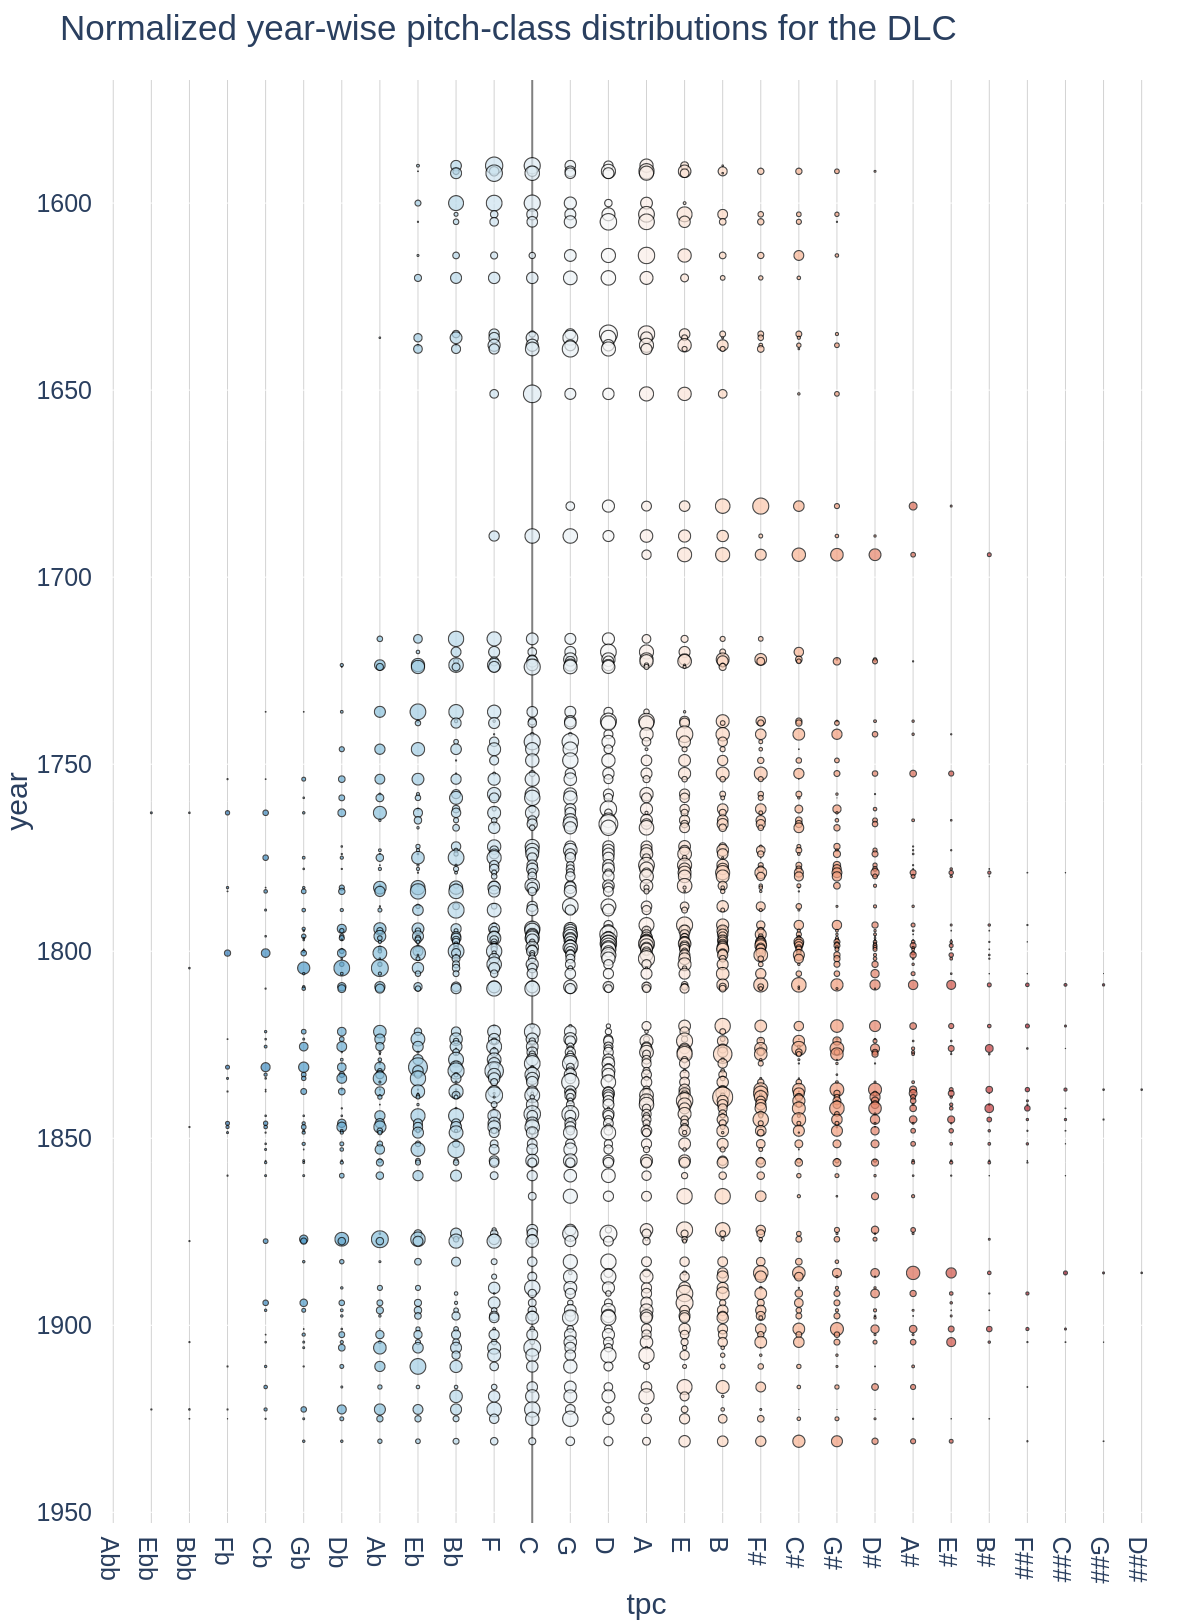
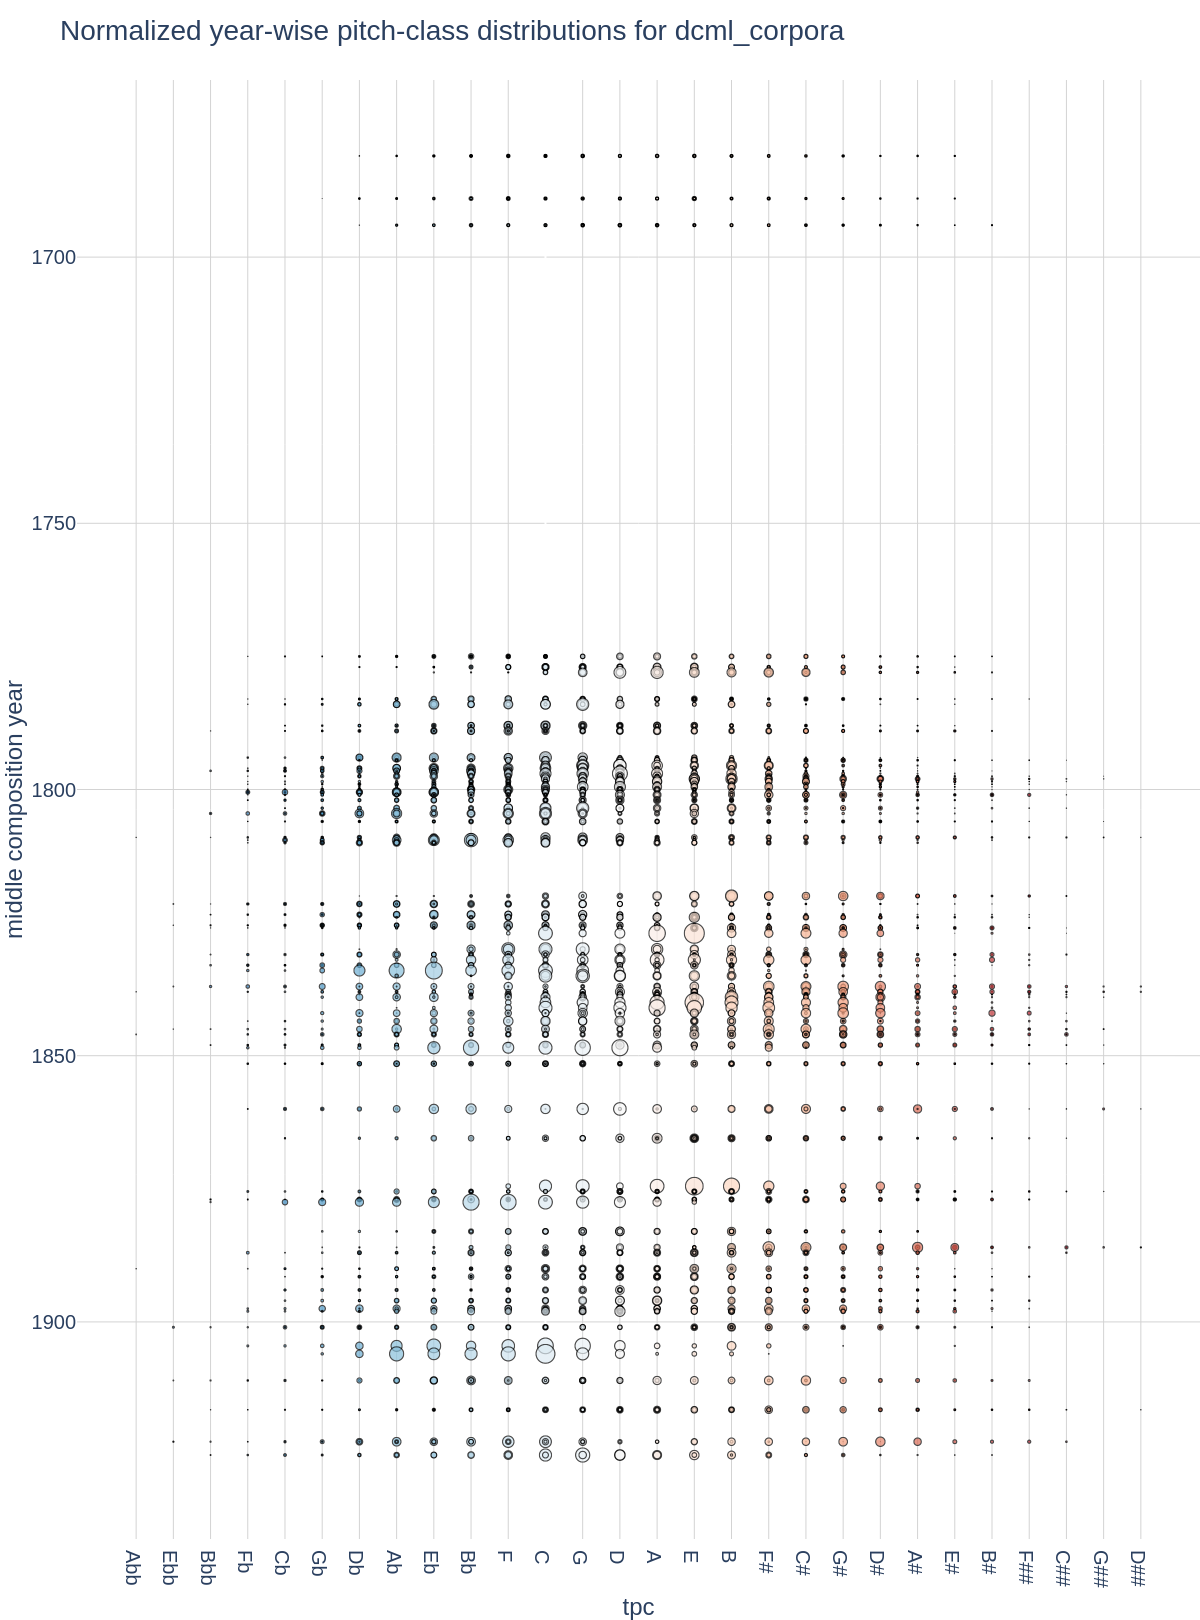
improves plotting to the point that the line_of_fifths.md notebook works with the revamped DiMCAT

diff --git a/line_of_fifths.py b/line_of_fifths.py
@@ -23,7 +23,6 @@
 # %autoreload 2
 import os
 from git import Repo
-import plotly.express as px
 import dimcat as dc
 import ms3
 
@@ -32,13 +31,8 @@ from utils import (
     print_heading,
     get_repo_name
 )
-from dimcat.utils import get_middle_composition_year
-from dimcat.plotting import write_image
-from dimcat.data import resources
-import pandas as pd
-# import modin.pandas as pd
-# import ray
-# ray.init(runtime_env={'env_vars': {'__MODIN_AUTOIMPORT_PANDAS__': '1'}}, ignore_reinit_error=True)
+
+from dimcat import resources, groupers
 
 # %%
 from utils import OUTPUT_FOLDER, DEFAULT_OUTPUT_FORMAT
@@ -46,8 +40,6 @@ RESULTS_PATH = os.path.abspath(os.path.join(OUTPUT_FOLDER, "line_of_fifths"))
 os.makedirs(RESULTS_PATH, exist_ok=True)
 def make_output_path(filename):
     return os.path.join(RESULTS_PATH, f"{filename}{DEFAULT_OUTPUT_FORMAT}")
-def save_figure_as(fig, filename, directory=RESULTS_PATH, **kwargs):
-    write_image(fig, filename, directory, **kwargs)
 
 
 # %% [markdown]
@@ -63,20 +55,8 @@ print(f"ms3 version {ms3.__version__}")
 D = dc.Dataset.from_package(package_path)
 D
 
-# %%
-notes = D.get_feature("notes")
-notes.df
-
-# %%
-annotations = D.get_feature("harmonylabels")
-annotations.df
-
-# %%
-metadata = D.get_metadata()
-metadata
-
 # %% [markdown]
-# ## Pitch class distribution
+# ## Pitch class distribution for the beginning of La Mer
 
 # %%
 la_mer_notes = resources.Notes.from_descriptor_path("La_Mer_1-84.notes.resource.json")
@@ -91,93 +71,45 @@ la_mer_notes.plot_grouped(
 )
 
 # %%
-from dimcat.plotting import make_lof_bubble_plot
+grouped_la_mer = groupers.MeasureGrouper().process(la_mer_notes)
+grouped_la_mer.plot_grouped(
+  title="Normalized measure-wise pitch-class distribution in 'La Mer' (mm. 1-84)",
+  output=make_output_path("debussy_la_mer_beginning_barwise_pitch_class_distributions_bubbles"), 
+  width=1200)
 
-la_mer_mn_dist = la_mer_notes.groupby(['mn', 'tpc']).duration_qb.sum()
-x_vals = sorted(la_mer_notes.tpc.unique())
-x_names = ms3.fifths2name(x_vals)
-x_axis = dict(tickvals=x_vals, ticktext=x_names)
-fig = make_lof_bubble_plot(
-    la_mer_mn_dist, 
-  y_col="mn",
-  title="measure-wise pitch-class distribution in 'La Mer' (mm. 1-84)",
-    labels=dict(mn="Measure number", tpc="Tonal pitch class"), x_axis=x_axis
-    )
-save_figure_as(fig, "debussy_la_mer_beginning_barwise_pitch_class_distributions_bubbles", width=1200)
-fig.show()
+# %% [markdown]
+# ## Pitch class distributions for the datapackage
 
 # %%
-sorted_composition_years = get_middle_composition_year(metadata).sort_values()
-order_of_pieces = sorted_composition_years.index.to_list()
-notes_piece_groups = notes.groupby(['corpus', 'piece'])
-# aligned_integer_index = np.concatenate([notes_piece_groups.indices[piece_id] for piece_id in order_of_pieces])
-# notes_chronological_piece_order = notes.take(aligned_integer_index)
-id_notes = pd.concat({ID: notes_piece_groups.get_group(piece_id) for ID, piece_id in enumerate(order_of_pieces)})
-id_notes.index.rename(['ID', 'corpus', 'piece',  'i'], inplace=True)
-id_notes
-piece_distributions = id_notes.groupby(['ID', 'corpus', 'piece', 'tpc']).duration_qb.sum()
-piece_distributions
-
-# %%
-id_distributions = piece_distributions.copy()
-id_distributions.index = piece_distributions.index.droplevel([1,2])
-id_distributions
-
-# %%
-df = id_distributions.groupby(level=0, group_keys=False).apply(lambda S: S / S.sum())
-hover_data = ms3.fifths2name(list(df.tpc))
-df['pitch class'] = hover_data
-df
-
-# %%
-result = resources.results.Result.from_dataframe(df, "dcml_corpora_pitch_class_distributions")
-result.index.rename("piece", inplace=True)
+result = notes.get_default_analysis()
 result
 
 # %%
-result.plot()
+result.unstack(fill_value=0.0).sum().rename("duration_qb")
 
 # %%
-result.plot_grouped()
-
-# %%
-fig = px.scatter(df, x=list(df.tpc), y=list(df.ID),
-                     size=list(df.duration_qb),
-                     color=list(df.tpc))
-fig
-
-# %%
-fig = make_lof_bubble_plot(
-    id_distributions,
-    y_col="ID",
-    title="piece-wise pitch-class distributions for the DLC", x_axis=x_axis
+notes = D.get_feature("notes")
+notes.plot_grouped(
+  title=f"Pitch-class distribution for {notes.resource_name.split('.')[0]}",
+  output=make_output_path("complete_pitch_class_distribution_absolute_bars"),
+  height=800
 )
-save_figure_as(fig, "all_pitch_class_distributions_piecewise_bubbles", width=1200)
-fig.show()
 
 # %%
-year_notes = pd.concat({year: notes_piece_groups.get_group(piece_id)
-                        for piece_id, year in sorted_composition_years.items()})
-year_notes.index.rename(['year', 'corpus', 'piece',  'i'], inplace=True)
-year_notes
+grouped_D = groupers.YearGrouper().process(D)
+grouped_notes = grouped_D.get_feature("notes")
+grouped_notes
 
 # %%
-year_groupby = year_notes.reset_index().groupby(['year', 'tpc'])
-year_distributions = year_groupby.duration_qb.sum()
-year_distributions = pd.concat([year_distributions, year_groupby.corpus.unique().rename('corpora')], axis=1)
-fig = make_lof_bubble_plot(
-    year_distributions,
-    y_col="year",
-    normalize=True, title="year-wise pitch-class distributions for the DLC", hover_data="corpora",
-    x_axis=x_axis
+grouped_notes.plot(
+  output=make_output_path("all_pitch_class_distributions_piecewise_bubbles"),
+  title=f"Normalized piece-wise pitch-class distributions for {grouped_notes.resource_name.split('.')[0]}",
+  width=1200
 )
-save_figure_as(fig, "all_pitch_class_distributions_yearwise_bubbles", width=1200)
-fig.show()
 
 # %%
-from dimcat.steps import analyzers
-fig = notes.plot()
-save_figure_as(fig, "complete_pitch_class_distribution_absolute_bars", height=800)
-fig.show()
-
-# %%
+grouped_notes.plot_grouped(
+  output=make_output_path("all_pitch_class_distributions_yearwise_bubbles"),
+  title=f"Normalized year-wise pitch-class distributions for {grouped_notes.resource_name.split('.')[0]}",
+  width=1200
+)

diff --git a/line_of_fifths.md b/line_of_fifths.md
@@ -21,7 +21,6 @@ Notebook adapted from the one used for the presentation at HCI 2023 in Copenhage
 %autoreload 2
 import os
 from git import Repo
-import plotly.express as px
 import dimcat as dc
 import ms3
 
@@ -30,13 +29,8 @@ from utils import (
     print_heading,
     get_repo_name
 )
-from dimcat.utils import get_middle_composition_year
-from dimcat.plotting import write_image
-from dimcat.data import resources
-import pandas as pd
-# import modin.pandas as pd
-# import ray
-# ray.init(runtime_env={'env_vars': {'__MODIN_AUTOIMPORT_PANDAS__': '1'}}, ignore_reinit_error=True)
+
+from dimcat import resources, groupers
 ```
 
 ```{code-cell}
@@ -45,8 +39,6 @@ RESULTS_PATH = os.path.abspath(os.path.join(OUTPUT_FOLDER, "line_of_fifths"))
 os.makedirs(RESULTS_PATH, exist_ok=True)
 def make_output_path(filename):
     return os.path.join(RESULTS_PATH, f"{filename}{DEFAULT_OUTPUT_FORMAT}")
-def save_figure_as(fig, filename, directory=RESULTS_PATH, **kwargs):
-    write_image(fig, filename, directory, **kwargs)
 ```
 
 **Loading data**
@@ -62,22 +54,7 @@ D = dc.Dataset.from_package(package_path)
 D
 ```
 
-```{code-cell}
-notes = D.get_feature("notes")
-notes.df
-```
-
-```{code-cell}
-annotations = D.get_feature("harmonylabels")
-annotations.df
-```
-
-```{code-cell}
-metadata = D.get_metadata()
-metadata
-```
-
-## Pitch class distribution
+## Pitch class distribution for the beginning of La Mer
 
 ```{code-cell}
 la_mer_notes = resources.Notes.from_descriptor_path("La_Mer_1-84.notes.resource.json")
@@ -94,107 +71,51 @@ la_mer_notes.plot_grouped(
 ```
 
 ```{code-cell}
-from dimcat.plotting import make_lof_bubble_plot
-
-la_mer_mn_dist = la_mer_notes.groupby(['mn', 'tpc']).duration_qb.sum()
-x_vals = sorted(la_mer_notes.tpc.unique())
-x_names = ms3.fifths2name(x_vals)
-x_axis = dict(tickvals=x_vals, ticktext=x_names)
-fig = make_lof_bubble_plot(
-    la_mer_mn_dist, 
-  y_col="mn",
-  title="measure-wise pitch-class distribution in 'La Mer' (mm. 1-84)",
-    labels=dict(mn="Measure number", tpc="Tonal pitch class"), x_axis=x_axis
-    )
-save_figure_as(fig, "debussy_la_mer_beginning_barwise_pitch_class_distributions_bubbles", width=1200)
-fig.show()
+grouped_la_mer = groupers.MeasureGrouper().process(la_mer_notes)
+grouped_la_mer.plot_grouped(
+  title="Normalized measure-wise pitch-class distribution in 'La Mer' (mm. 1-84)",
+  output=make_output_path("debussy_la_mer_beginning_barwise_pitch_class_distributions_bubbles"), 
+  width=1200)
 ```
 
-```{code-cell}
-sorted_composition_years = get_middle_composition_year(metadata).sort_values()
-order_of_pieces = sorted_composition_years.index.to_list()
-notes_piece_groups = notes.groupby(['corpus', 'piece'])
-# aligned_integer_index = np.concatenate([notes_piece_groups.indices[piece_id] for piece_id in order_of_pieces])
-# notes_chronological_piece_order = notes.take(aligned_integer_index)
-id_notes = pd.concat({ID: notes_piece_groups.get_group(piece_id) for ID, piece_id in enumerate(order_of_pieces)})
-id_notes.index.rename(['ID', 'corpus', 'piece',  'i'], inplace=True)
-id_notes
-piece_distributions = id_notes.groupby(['ID', 'corpus', 'piece', 'tpc']).duration_qb.sum()
-piece_distributions
-```
+## Pitch class distributions for the datapackage
 
 ```{code-cell}
-id_distributions = piece_distributions.copy()
-id_distributions.index = piece_distributions.index.droplevel([1,2])
-id_distributions
-```
-
-```{code-cell}
-df = id_distributions.groupby(level=0, group_keys=False).apply(lambda S: S / S.sum())
-hover_data = ms3.fifths2name(list(df.tpc))
-df['pitch class'] = hover_data
-df
-```
-
-```{code-cell}
-result = resources.results.Result.from_dataframe(df, "dcml_corpora_pitch_class_distributions")
-result.index.rename("piece", inplace=True)
+result = notes.get_default_analysis()
 result
 ```
 
 ```{code-cell}
-result.plot()
+result.unstack(fill_value=0.0).sum().rename("duration_qb")
 ```
 
 ```{code-cell}
-result.plot_grouped()
-```
-
-```{code-cell}
-fig = px.scatter(df, x=list(df.tpc), y=list(df.ID),
-                     size=list(df.duration_qb),
-                     color=list(df.tpc))
-fig
-```
-
-```{code-cell}
-fig = make_lof_bubble_plot(
-    id_distributions,
-    y_col="ID",
-    title="piece-wise pitch-class distributions for the DLC", x_axis=x_axis
+notes = D.get_feature("notes")
+notes.plot_grouped(
+  title=f"Pitch-class distribution for {notes.resource_name.split('.')[0]}",
+  output=make_output_path("complete_pitch_class_distribution_absolute_bars"),
+  height=800
 )
-save_figure_as(fig, "all_pitch_class_distributions_piecewise_bubbles", width=1200)
-fig.show()
 ```
 
 ```{code-cell}
-year_notes = pd.concat({year: notes_piece_groups.get_group(piece_id)
-                        for piece_id, year in sorted_composition_years.items()})
-year_notes.index.rename(['year', 'corpus', 'piece',  'i'], inplace=True)
-year_notes
+grouped_D = groupers.YearGrouper().process(D)
+grouped_notes = grouped_D.get_feature("notes")
+grouped_notes
 ```
 
 ```{code-cell}
-year_groupby = year_notes.reset_index().groupby(['year', 'tpc'])
-year_distributions = year_groupby.duration_qb.sum()
-year_distributions = pd.concat([year_distributions, year_groupby.corpus.unique().rename('corpora')], axis=1)
-fig = make_lof_bubble_plot(
-    year_distributions,
-    y_col="year",
-    normalize=True, title="year-wise pitch-class distributions for the DLC", hover_data="corpora",
-    x_axis=x_axis
+grouped_notes.plot(
+  output=make_output_path("all_pitch_class_distributions_piecewise_bubbles"),
+  title=f"Normalized piece-wise pitch-class distributions for {grouped_notes.resource_name.split('.')[0]}",
+  width=1200
 )
-save_figure_as(fig, "all_pitch_class_distributions_yearwise_bubbles", width=1200)
-fig.show()
 ```
 
 ```{code-cell}
-from dimcat.steps import analyzers
-fig = notes.plot()
-save_figure_as(fig, "complete_pitch_class_distribution_absolute_bars", height=800)
-fig.show()
-```
-
-```{code-cell}
-
+grouped_notes.plot_grouped(
+  output=make_output_path("all_pitch_class_distributions_yearwise_bubbles"),
+  title=f"Normalized year-wise pitch-class distributions for {grouped_notes.resource_name.split('.')[0]}",
+  width=1200
+)
 ```
